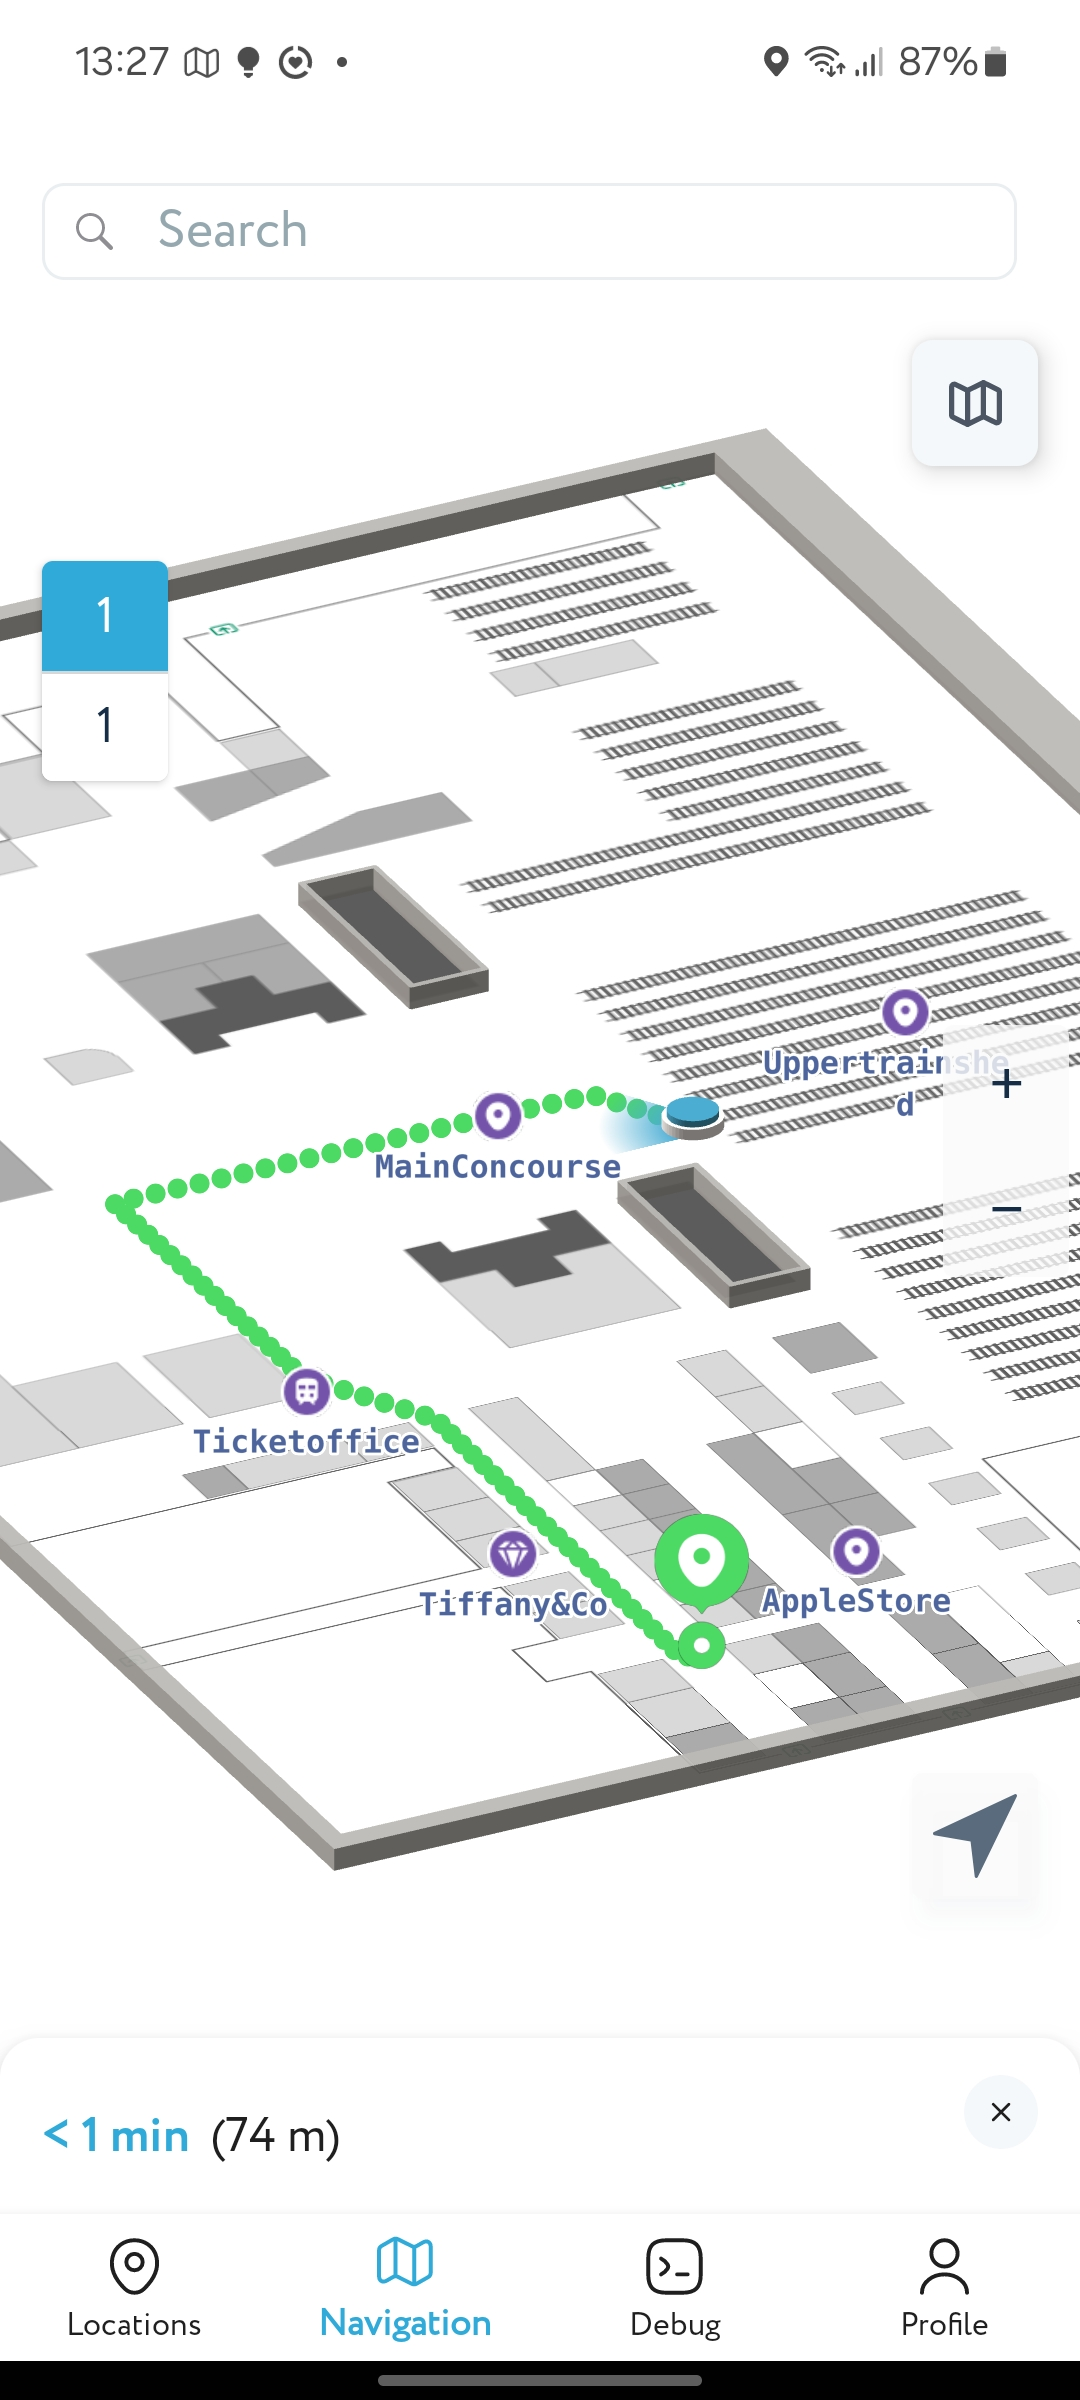
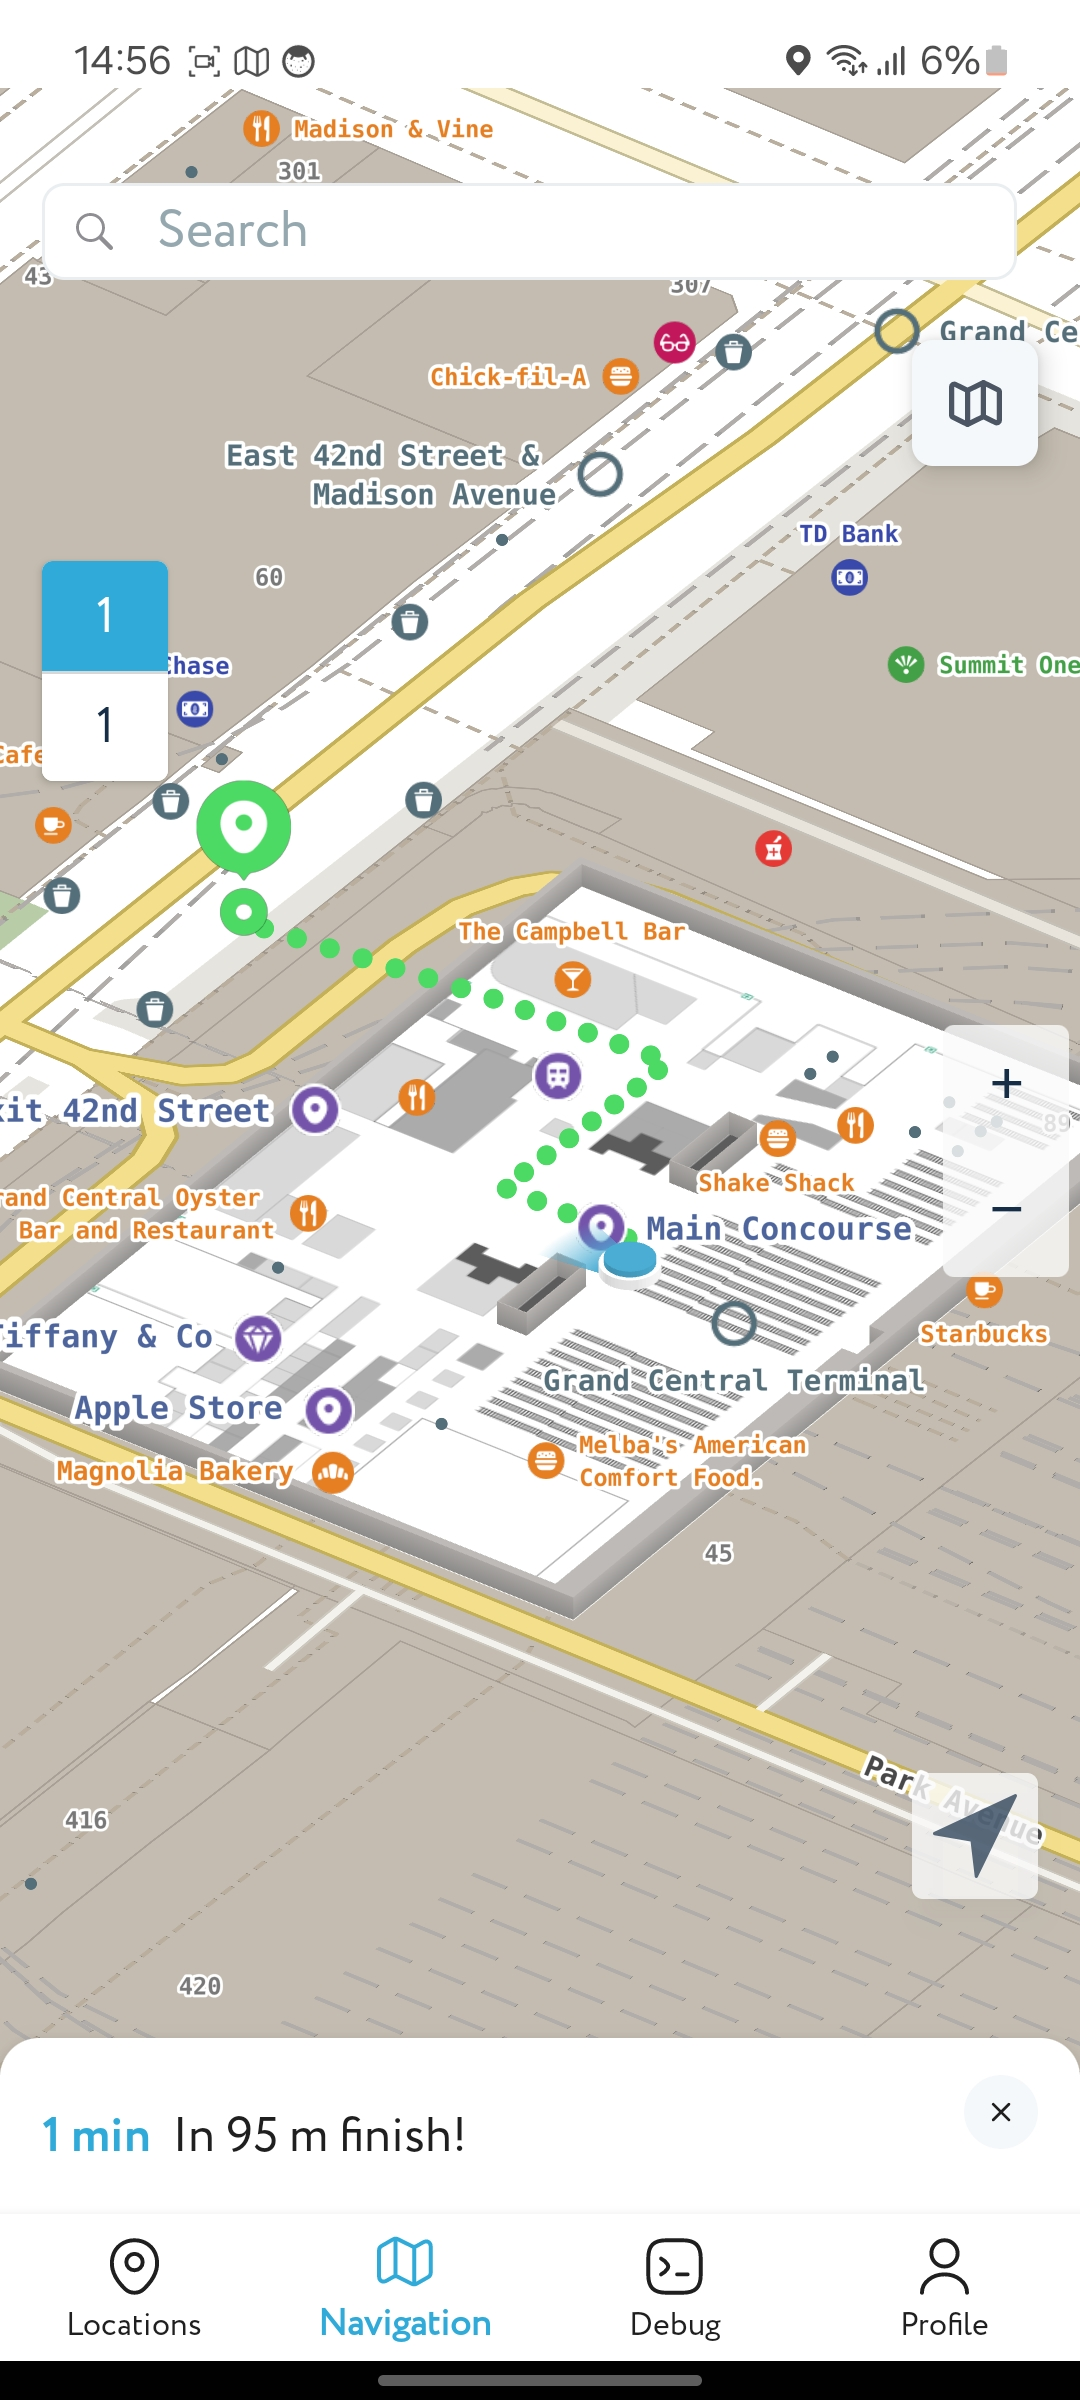
fix: updated screenshots

diff --git a/README.md b/README.md
@@ -45,7 +45,7 @@ dependencyResolutionManagement {
 
 // build.gradle.kts
 dependencies {
-    implementation("com.github.Navigine.Indoor-Navigation-Android-Mobile-SDK-2.0:libnavigine:2.26.0")
+    implementation("com.github.Navigine.Indoor-Navigation-Android-Mobile-SDK-2.0:libnavigine:2.29.0")
 }
 ```
 
@@ -69,7 +69,7 @@ and want idiomatic Compose APIs instead of working with the View directly.
 
 ```kotlin
 dependencies {
-    implementation("com.navigine:navigine-locationview-compose:2.25.1")
+    implementation("com.navigine:navigine-locationview-compose:2.29.0")
 }
 ```
 
